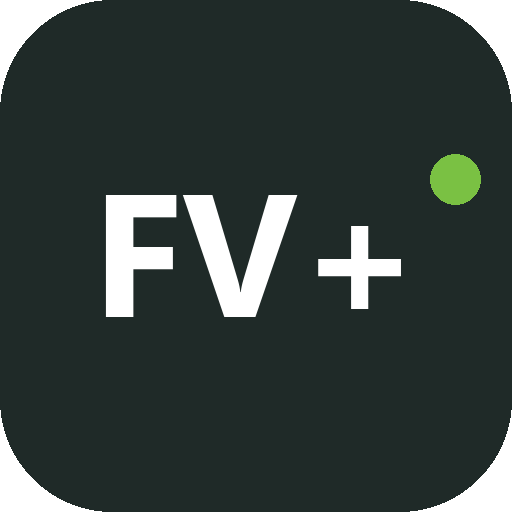
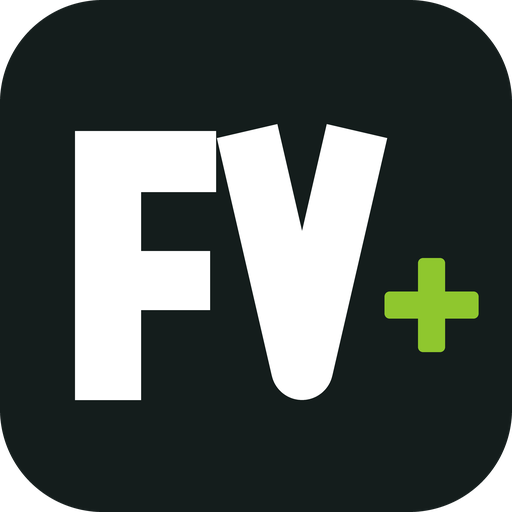
feat(pwa): el icono de la pestaña y poder instalar la aplicación
Dos cosas que faltaban, y una tercera que apareció al mirarlas.

EL ICONO. El de la pestaña era un cuadro con «FV+» en #1f2a2c y verde
#62c031: de lejos pasan por los colores de la casa, pero no lo son. Y
llevaba una elipse suelta en una esquina que a 16 px —el tamaño al que
se ve casi siempre— se comía la V y dejaba una mancha verde sin
significado. Ahora son dos letras grandes y el signo, en #141d1c y
#8fc72e, que es lo único que se lee a ese tamaño.

De ese mismo dibujo salen los PNG (192, 512, el de 180 del iPhone y uno
enmascarable con margen) y un favicon.ico en la raíz, que es lo que pide
el navegador por su cuenta cuando una página no declara icono — y la
portada no declaraba ninguno, así que quien la guardaba en marcadores se
quedaba con el papel en blanco.

INSTALABLE. El manifiesto existía desde hacía meses y no estaba
enlazado desde ninguna página: sin ese <link>, el navegador no ofrece
instalar nada por muy completo que esté. Ya está enlazado, con los
colores de marca y un icono enmascarable propio —antes declaraba el
normal como enmascarable y Android le recortaba las esquinas—. El botón
«Instalar la app» aparece en el menú lateral cuando el navegador avisa
de que se puede; en iPhone, donde Safari no deja instalar por código, el
botón abre una hoja con los dos toques que hay que dar.

Y LA TERCERA. Nadie registraba el service worker. sw.js estaba escrito,
cuidado y con su CACHE_VERSION subida en cada despliegue desde hace
[…]

diff --git a/js/modules/instalar.js b/js/modules/instalar.js
@@ -1,0 +1,189 @@
+/* ============================================================
+   INSTALAR LA APLICACIÓN
+
+   Dos cosas que faltaban para que Filtro Vehicular+ se pudiera instalar
+   como una aplicación más del teléfono o del escritorio:
+
+   1. Registrar el service worker. Estaba escrito y mantenido desde hacía
+      meses —sw.js, con su CACHE_VERSION que se sube en cada despliegue—
+      pero NADIE lo registraba: la única llamada a `register` vivía en una
+      página suelta del emisor de CITV. Así que ni había caché, ni la
+      subida de versión servía de nada, ni el navegador ofrecía instalar,
+      porque para ofrecerlo exige un service worker con manejador de
+      `fetch`.
+
+   2. Enseñar el botón. El navegador avisa de que la aplicación se puede
+      instalar con `beforeinstallprompt` y, si nadie recoge ese aviso, se
+      lo queda él y como mucho lo esconde en su menú. Aquí se recoge, se
+      guarda, y se enciende el botón del menú lateral.
+
+   El iPhone va aparte: Safari no lanza ese aviso y no deja instalar por
+   código. Lo único que se puede hacer —y lo que se hace— es explicarle
+   al cliente los dos toques que tiene que dar.
+============================================================ */
+
+(function () {
+  window.Consultia = window.Consultia || {};
+
+  var COMPARTIR_IOS = '<svg viewBox="0 0 24 24" fill="none" stroke="currentColor" stroke-width="1.7" ' +
+    'stroke-linecap="round" stroke-linejoin="round" aria-hidden="true">' +
+    '<path d="M12 15V3"/><polyline points="8 6.5 12 2.8 16 6.5"/>' +
+    '<path d="M5 12v7.2A1.8 1.8 0 0 0 6.8 21h10.4a1.8 1.8 0 0 0 1.8-1.8V12"/></svg>';
+
+  var MAS_IOS = '<svg viewBox="0 0 24 24" fill="none" stroke="currentColor" stroke-width="1.7" ' +
+    'stroke-linecap="round" aria-hidden="true"><path d="M12 5v14M5 12h14"/></svg>';
+
+  var CERRAR_SVG = '<svg viewBox="0 0 24 24" fill="none" stroke="currentColor" stroke-width="1.9" ' +
+    'stroke-linecap="round" aria-hidden="true"><path d="M18 6 6 18M6 6l12 12"/></svg>';
+
+  /* ── El service worker ──────────────────────────────────────────
+     Se registra al terminar de cargar y no antes: durante el arranque
+     compite por la misma red que necesita la primera pantalla. */
+  function registrarServicio() {
+    if (!('serviceWorker' in navigator)) return;
+    if (location.protocol !== 'https:' && location.hostname !== 'localhost') return;
+    window.addEventListener('load', function () {
+      navigator.serviceWorker.register('/sw.js').catch(function (e) {
+        console.warn('[instalar] el service worker no se registró:', e);
+      });
+    });
+  }
+
+  function esIOS() {
+    return /iphone|ipad|ipod/i.test(navigator.userAgent) ||
+      // El iPad moderno se hace pasar por Mac; se le reconoce porque el
+      // escritorio no tiene pantalla táctil.
+      (navigator.platform === 'MacIntel' && navigator.maxTouchPoints > 1);
+  }
+
+  function yaInstalada() {
+    return (window.matchMedia && window.matchMedia('(display-mode: standalone)').matches) ||
+      navigator.standalone === true;
+  }
+
+  function htmlBoton() {
+    return '' +
+      '<button class="sb-action" type="button" id="btnInstalar" hidden ' +
+             'aria-label="Instalar la aplicación" data-tooltip="Instalar la aplicación">' +
+        '<svg viewBox="0 0 24 24" fill="none" stroke="currentColor" stroke-width="1.8" ' +
+             'stroke-linecap="round" stroke-linejoin="round">' +
+          '<path d="M12 3v11"/><polyline points="8 10.5 12 14.5 16 10.5"/>' +
+          '<path d="M4 17.5v1.6A1.9 1.9 0 0 0 5.9 21h12.2a1.9 1.9 0 0 0 1.9-1.9v-1.6"/>' +
+        '</svg>' +
+        '<span>Instalar la app</span>' +
+      '</button>';
+  }
+
+  /* La hoja del iPhone. Se abre solo si el cliente pulsa el botón: no se
+     le suelta un aviso a nadie que no lo haya pedido. */
+  function abrirAyudaIOS() {
+    var previo = document.getElementById('inst-ios');
+    if (previo) previo.remove();
+
+    var root = document.createElement('div');
+    root.id = 'inst-ios';
+    root.className = 'rep-modal inst-modal';
+    root.setAttribute('role', 'dialog');
+    root.setAttribute('aria-modal', 'true');
+    root.setAttribute('aria-label', 'Instalar la aplicación');
+    root.innerHTML =
+      '<div class="rep-modal-fondo"></div>' +
+      '<div class="rep-modal-caja">' +
+        '<button class="rep-modal-cerrar" type="button" aria-label="Cerrar">' + CERRAR_SVG + '</button>' +
+        '<div class="citv-aviso">' +
+          '<header class="citv-membrete">' +
+            '<span class="citv-chip">Filtro Vehicular+</span>' +
+            '<h4 class="citv-titulo">Instálala en tu iPhone</h4>' +
+            '<p class="citv-sigla">Queda como una aplicación más, con su icono.</p>' +
+            '<div class="citv-linea"><span></span><span></span><span></span><span></span></div>' +
+          '</header>' +
+          '<div class="citv-cuerpo">' +
+            '<ol class="inst-pasos">' +
+              '<li><span class="inst-ico">' + COMPARTIR_IOS + '</span>' +
+                  '<div>Toca <strong>Compartir</strong>, abajo en la barra de Safari.</div></li>' +
+              '<li><span class="inst-ico">' + MAS_IOS + '</span>' +
+                  '<div>Baja y elige <strong>Añadir a pantalla de inicio</strong>.</div></li>' +
+            '</ol>' +
+            '<p class="citv-texto">Safari no deja instalarla desde un botón; en el iPhone hay que ' +
+            'hacerlo desde ahí. En Android y en la computadora sale sola.</p>' +
+          '</div>' +
+        '</div>' +
+        '<div class="rep-modal-pie"><button class="rep-modal-ok" type="button">Entendido</button></div>' +
+      '</div>';
+    document.body.appendChild(root);
+    document.body.classList.add('modal-open');
+    requestAnimationFrame(function () { root.classList.add('is-abierto'); });
+
+    function cerrar() {
+      document.removeEventListener('keydown', alPulsar);
+      document.body.classList.remove('modal-open');
+      root.remove();
+    }
+    function alPulsar(e) { if (e.key === 'Escape') cerrar(); }
+    document.addEventListener('keydown', alPulsar);
+    root.querySelector('.rep-modal-fondo').addEventListener('click', cerrar);
+    root.querySelector('.rep-modal-cerrar').addEventListener('click', cerrar);
+    root.querySelector('.rep-modal-ok').addEventListener('click', cerrar);
+  }
+
+  function arrancar() {
+    registrarServicio();
+
+    var caja = document.querySelector('.sidebar-actions');
+    if (!caja) return;
+    caja.insertAdjacentHTML('afterbegin', htmlBoton());
+    var boton = document.getElementById('btnInstalar');
+    if (!boton) return;
+
+    // Ya está instalada: el botón no pinta nada.
+    if (yaInstalada()) return;
+
+    if (esIOS()) {
+      boton.hidden = false;
+      boton.addEventListener('click', abrirAyudaIOS);
+      return;
+    }
+
+    /* Android y escritorio. El aviso llega cuando el navegador decide que
+       la aplicación cumple —manifiesto, iconos, service worker y HTTPS—,
+       y hay que quedárselo: si no se guarda, se pierde y ya no se puede
+       pedir la instalación más tarde. */
+    var guardado = null;
+    window.addEventListener('beforeinstallprompt', function (e) {
+      e.preventDefault();
+      guardado = e;
+      boton.hidden = false;
+    });
+
+    boton.addEventListener('click', async function () {
+      if (!guardado) return;
+      boton.disabled = true;
+      try {
+        guardado.prompt();
+        await guardado.userChoice;
+      } catch (e) {
+        console.warn('[instalar] el navegador rechazó la instalación:', e);
+      } finally {
+        // El aviso guardado solo sirve una vez.
+        guardado = null;
+        boton.disabled = false;
+        boton.hidden = true;
+      }
+    });
+
+    window.addEventListener('appinstalled', function () {
+      boton.hidden = true;
+      if (Consultia.toast) Consultia.toast({
+        type: 'success',
+        title: 'Instalada',
+        message: 'Filtro Vehicular+ ya está en tu pantalla de inicio.',
+      });
+    });
+  }
+
+  if (document.readyState === 'loading') {
+    document.addEventListener('DOMContentLoaded', arrancar);
+  } else {
+    arrancar();
+  }
+})();

diff --git a/app.html b/app.html
@@ -16,15 +16,28 @@
 <meta property="og:description" content="Plataforma Filtro Vehicular+ — consultas vehiculares, Sunarp, Reniec, Sunat e infracciones en Perú. Resultados oficiales al instante.">
 <meta property="og:locale" content="es_PE">
 
-<!-- Favicon -->
-<link rel="icon" type="image/svg+xml" href="icons/favicon.svg?v=2">
+<!-- Favicon — el icono de la pestaña.
+     Tres declaraciones porque no hay una que valga en todos: el SVG es el
+     bueno (una sola línea y nítido a cualquier tamaño) y lo usan Chrome,
+     Firefox y Edge; el .ico de la raíz es para los que no entienden SVG y
+     para cuando el navegador lo pide por su cuenta, sin mirar el HTML; y
+     el PNG de 180 es el que se lleva el iPhone a la pantalla de inicio. -->
+<link rel="icon" type="image/svg+xml" href="icons/favicon.svg?v=3">
+<link rel="icon" href="/favicon.ico?v=3" sizes="32x32 48x48">
+
+<!-- Instalable: sin esta línea el navegador no ofrece instalar nada, por
+     muy completo que esté el manifiesto. -->
+<link rel="manifest" href="/manifest.json?v=3">
 
 <!-- El anti-bot de Cloudflare vive en otro dominio. Sin esto, el celular
      empieza a resolver DNS y a negociar TLS recién al abrir el formulario
      de acceso, y el recuadro tarda segundos en aparecer. -->
 <link rel="preconnect" href="https://challenges.cloudflare.com" crossorigin>
 <link rel="dns-prefetch" href="https://challenges.cloudflare.com">
-<link rel="apple-touch-icon" href="icons/icon-192.png?v=2">
+<link rel="apple-touch-icon" href="icons/apple-touch-icon.png?v=3">
+<meta name="apple-mobile-web-app-capable" content="yes">
+<meta name="apple-mobile-web-app-status-bar-style" content="black-translucent">
+<meta name="apple-mobile-web-app-title" content="Filtro Vehicular+">
 
 
 <!-- Bridge de consultas: ahora pasa por la edge function 'bridge-proxy' de
@@ -55,7 +68,7 @@
 <link rel="stylesheet" href="css/sidebar.css?v=10">
 <link rel="stylesheet" href="css/topbar.css?v=9">
 <link rel="stylesheet" href="css/components.css?v=19">
-<link rel="stylesheet" href="css/views.css?v=99">
+<link rel="stylesheet" href="css/views.css?v=100">
 <link rel="stylesheet" href="css/service-cards.css?v=9">
 <link rel="stylesheet" href="css/plans-catalog.css?v=4">
 <link rel="stylesheet" href="css/auth.css?v=70">
@@ -2156,6 +2169,8 @@
 <script src="js/modules/maintenance.js?v=6"></script>
 <script src="js/modules/aviso-clientes.js?v=8"></script>
 <script src="js/modules/idle-logout.js?v=2"></script>
+<!-- Registra el service worker y ofrece instalar la aplicación. -->
+<script src="js/modules/instalar.js?v=1"></script>
 
 </body>
 </html>

diff --git a/css/views.css b/css/views.css
@@ -6677,3 +6677,50 @@ a.nm-download { text-decoration: none; }
   gap: 9px;
 }
 .citv-modal .rep-modal-ok svg { width: 19px; height: 19px; }
+
+/* ── Instalar la app: la hoja del iPhone ─────────────────────────────
+   Safari no deja instalar por código, así que lo único que queda es
+   contarle al cliente los dos toques. Reusa el cuadro del Duplicado de
+   CITV (.rep-modal + .citv-*), que ya tiene membrete y pie; aquí solo se
+   viste la lista de pasos. */
+.inst-modal .rep-modal-caja { width: min(520px, 100%); }
+
+.inst-pasos {
+  list-style: none;
+  margin: 0 0 18px;
+  padding: 0;
+  display: flex;
+  flex-direction: column;
+  gap: 14px;
+  counter-reset: paso;
+}
+.inst-pasos li {
+  display: flex;
+  align-items: center;
+  gap: 14px;
+  padding: 14px 16px;
+  border: 1px solid var(--c-border);
+  border-radius: 12px;
+  font-size: 17px;
+  line-height: 1.45;
+  color: var(--c-primary);
+}
+/* El número va delante del texto, no en un disco aparte: dos discos
+   seguidos —el del número y el del icono— competían entre sí. */
+.inst-pasos li > div::before {
+  counter-increment: paso;
+  content: counter(paso) ". ";
+  font-weight: 700;
+}
+.inst-ico {
+  display: inline-flex;
+  align-items: center;
+  justify-content: center;
+  width: 42px;
+  height: 42px;
+  flex: 0 0 42px;
+  border-radius: 999px;
+  background: #141d1c;
+  color: #ffffff;
+}
+.inst-ico svg { width: 22px; height: 22px; }

diff --git a/index.html b/index.html
@@ -5,6 +5,15 @@
 <meta http-equiv="refresh" content="0;url=app.html">
 <link rel="canonical" href="https://filtrovehicularperu.com/app.html">
 <meta name="robots" content="noindex">
+
+<!-- La portada solo redirige, pero es la dirección que la gente guarda en
+     marcadores y la que abre el buscador. Sin icono declarado, ese marcador
+     se queda con el papel en blanco del navegador. -->
+<meta name="theme-color" content="#141D1C">
+<link rel="icon" type="image/svg+xml" href="icons/favicon.svg?v=3">
+<link rel="icon" href="/favicon.ico?v=3" sizes="32x32 48x48">
+<link rel="apple-touch-icon" href="icons/apple-touch-icon.png?v=3">
+<link rel="manifest" href="/manifest.json?v=3">
 <title>Plataforma Filtro Vehicular+</title>
 </head>
 <body>

diff --git a/sw.js b/sw.js
@@ -12,7 +12,7 @@
 
 // IMPORTANTE: incrementar CACHE_VERSION en cada deploy para que los usuarios
 // reciban las actualizaciones de JS/CSS/HTML automáticamente.
-const CACHE_VERSION = "v2.11.46-20260818";
+const CACHE_VERSION = "v2.12.0-20260819";
 const SHELL_CACHE = "fv-shell-" + CACHE_VERSION;
 const ASSETS_CACHE = "fv-assets-" + CACHE_VERSION;
 const IMG_CACHE = "fv-img-" + CACHE_VERSION;
